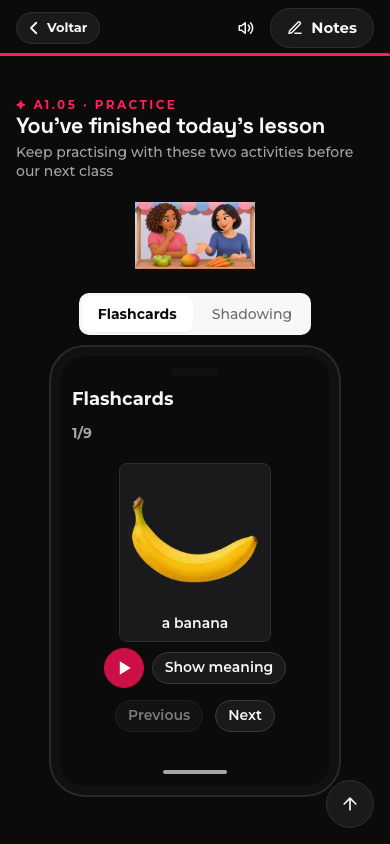
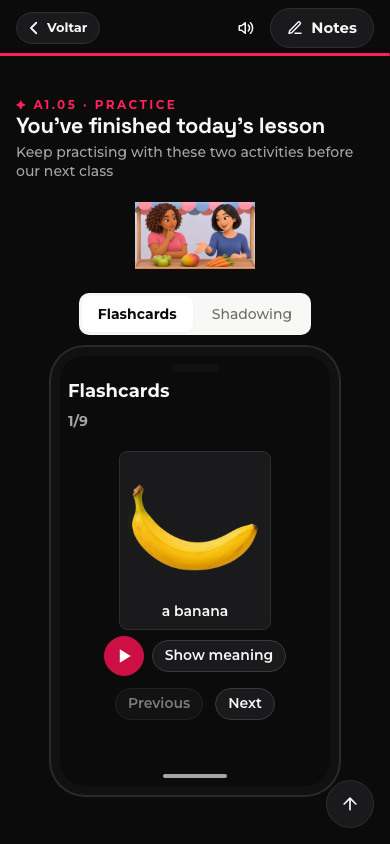
fix(practice): fit expanded translations in compact phone frames

Changed region(s): [[0.2462, 0.5545, 0.7385, 0.8626], [0.1846, 0.4313, 0.4615, 0.5237], [0.4, 0.8934, 0.5846, 0.9242]]

diff --git a/src/components/Device/MobileFrame.styles.ts b/src/components/Device/MobileFrame.styles.ts
@@ -16,8 +16,8 @@ export const Root = styled.section.withConfig({
   border: ${theme.voiceMessage.frameWidth} solid ${theme.voiceMessage.frame};
   border-radius: ${theme.voiceMessage.phoneRadius};
   box-shadow: 0 0 0 2px ${theme.voiceMessage.frameEdge};
-  padding: ${theme.spacing[3]};
-  gap: ${theme.spacing[3]};
+  padding: ${(p) => (p.$compact ? theme.spacing[2] : theme.spacing[3])};
+  gap: ${(p) => (p.$compact ? theme.spacing[2] : theme.spacing[3])};
   color: ${(p) => resolveSlideTheme(p).foreground};
   background: ${(p) => resolveSlideTheme(p).canvas};
   font-family: ${theme.typography.fontFamily.sans};

diff --git a/docs/epics/course-homework/progress.md b/docs/epics/course-homework/progress.md
@@ -9,13 +9,13 @@ Implementação e conteúdo preparados; ativação em staging pendente de acesso
 - 42 conjuntos US e 18 de outras variedades: GB 5, IE 4, AU 4, IN 3, ZA 2. Duração falada: US 1498.745s e outras 573.208s; 70/30 é a proporção de atividades, não de segundos
 - 752 vínculos de áudio anterior preservados (385 de Shadowing e 367 de Flashcards); 193 chamadas TTS novas (170 S e 23 F). Os 23 F incluem dois pares de input idêntico gerados separadamente; recibos e bytes preservados, sem fingir reuso. O gerador agora reconhece fingerprints já prontos entre IDs
 - Dez retratos novos com o prefixo v1.8 literal, quatro anteriores preservados. Nenhuma mudança no prompt canônico ou em LIMA/A.A de A102
-- Student: C1, decks dinâmicos, personagem por frase, contexto de Quiz, links diretos pelos serviços autenticados e limpeza das queries ao sair. Repetições 3, velocidade e progresso existentes preservados
-- Backend: C1 e campos opcionais; speaker IDs e fotos em prefixo restrito, áudio de curso assinado sem TTS padrão, contexto e regiões de imagem
+- Student: C1, decks dinâmicos, personagem por frase, contexto de Quiz, links diretos pelos serviços autenticados e limpeza das queries ao sair. Resumos de decks não iniciam sessão antes de chegar o conteúdo real dos cards. Repetições 3, velocidade e progresso existentes preservados
+- Backend: C1 só no contrato das atividades, preservando os níveis atuais de perfis/matrícula; campos opcionais; speaker IDs e fotos em prefixo restrito, áudio de curso assinado sem TTS padrão, contexto e regiões de imagem
 - Publicador staging idempotente preparado, exige contratos vivos verificados, hashes de mídia, IDs próprios, readback e ambos os destinos antes de habilitar links por ambiente. Sem fallback de escrita direta no Firestore
 
 ## Evidências e limites
 
-- Dois testes UI, 28 testes de validação/áudio backend e 28 testes de mapeamento Student passaram. Corpus 120 validado. Typechecks UI/Student e lint TypeScript dos dois codebases backend passaram
+- Dois testes UI, 28 testes de validação/áudio backend e 29 testes de mapeamento Student passaram. Corpus 120 validado. Typechecks UI/Student e lint TypeScript dos dois codebases backend passaram
 - Build da biblioteca/API/candidato4.5.0 preparado; build Student com configuração staging passou. O ambiente offline omitiu dependências nativas: links locais para os mesmos binários já existentes corrigiram a execução; o lockfile preserva todas as plataformas anteriores
 - Quatro pilotos renderizados em 1280×720 e 390×844, frente/verso e exemplo de Quiz. Todos cabem no viewport aferido sem largura excedente. Componentes reais Student capturados com fixture, incluindo reprodução de áudio e avanço para 1/3 escutas; isso não prova login ou progresso em backend
 - Quizzes são conjuntos contextuais autorados/adaptados; não alegar que os 16 candidatos antigos foram reutilizados integralmente. Atividades e históricos anteriores não foram sobrescritos
@@ -26,5 +26,7 @@ Implementação e conteúdo preparados; ativação em staging pendente de acesso
 Storage de staging retorna 403 storage.objects.get nas duas identidades locais disponíveis. A identidade de deploy não permite impersonação (iam.serviceAccounts.getAccessToken). Não houve upload ou escrita de atividades; não alterar IAM por conta própria e não reaproveitar a autorização Hosting82, que está presa à fonte82
 
 Após acesso e backend qualificado: publicar oito tarefas dos pilotos com scripts/course-practice/publish-staging.mjs --project=langyspace-staging --only=a1-05,a1-08,a2-01,c1-08 --ui-root=<UI>; verificar Student autenticado; ampliar ao mapa 120 sem --only; usar scripts/enable-practice-destinations.mjs da UI com o recibo real; reconstruir neutral e adotar/publicar pelo coordenador. Um ambiente não habilita links do outro. Não gerar mídia de novo
+
+A matriz ampliada aferiu 298 estados de encerramento em duas larguras. O único excesso foi 12px na tradução de C1.12 em 390×844. Padding/gap da variação compacta de MobileFrame foram reduzidos com os mesmos tokens; a repetição desse caso resultou em 844px de conteúdo, sem excesso. As propriedades padrão do frame regular foram preservadas. Metadados de todos os atlas usados nos cards conferem com as proporções declaradas
 
 Visual gate review: pending human

diff --git a/docs/components/practice-pair.md b/docs/components/practice-pair.md
@@ -12,3 +12,5 @@ progress. It never reports simulated completion. MobileFrame's default size is u
 ShadowingActivePhrase accepts optional `speaker: { name, imageUrl?, accentLabel? }`, rendered
 through the existing circular Avatar with the same name/description recipe. Omit the speaker on
 legacy phrases. The consumer resolves the phrase speaker and public media URL.
+
+The compact phone reuses the same border/camera/home-indicator chrome with smaller spacing tokens; the regular frame keeps its original spacing. Use a real published-destination receipt to enable a material link for one environment, independently of any other environment
